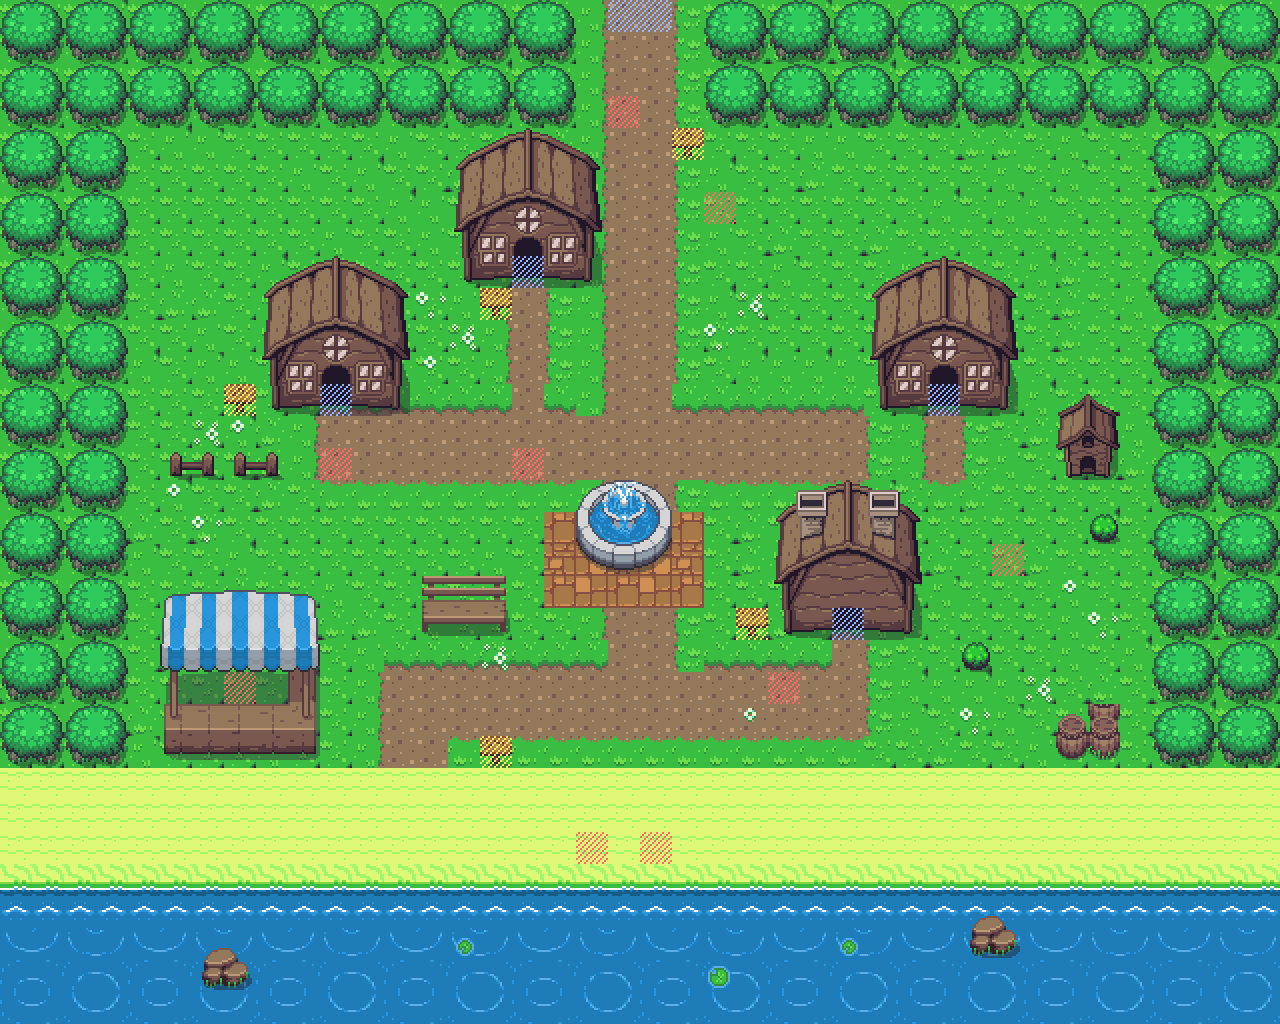
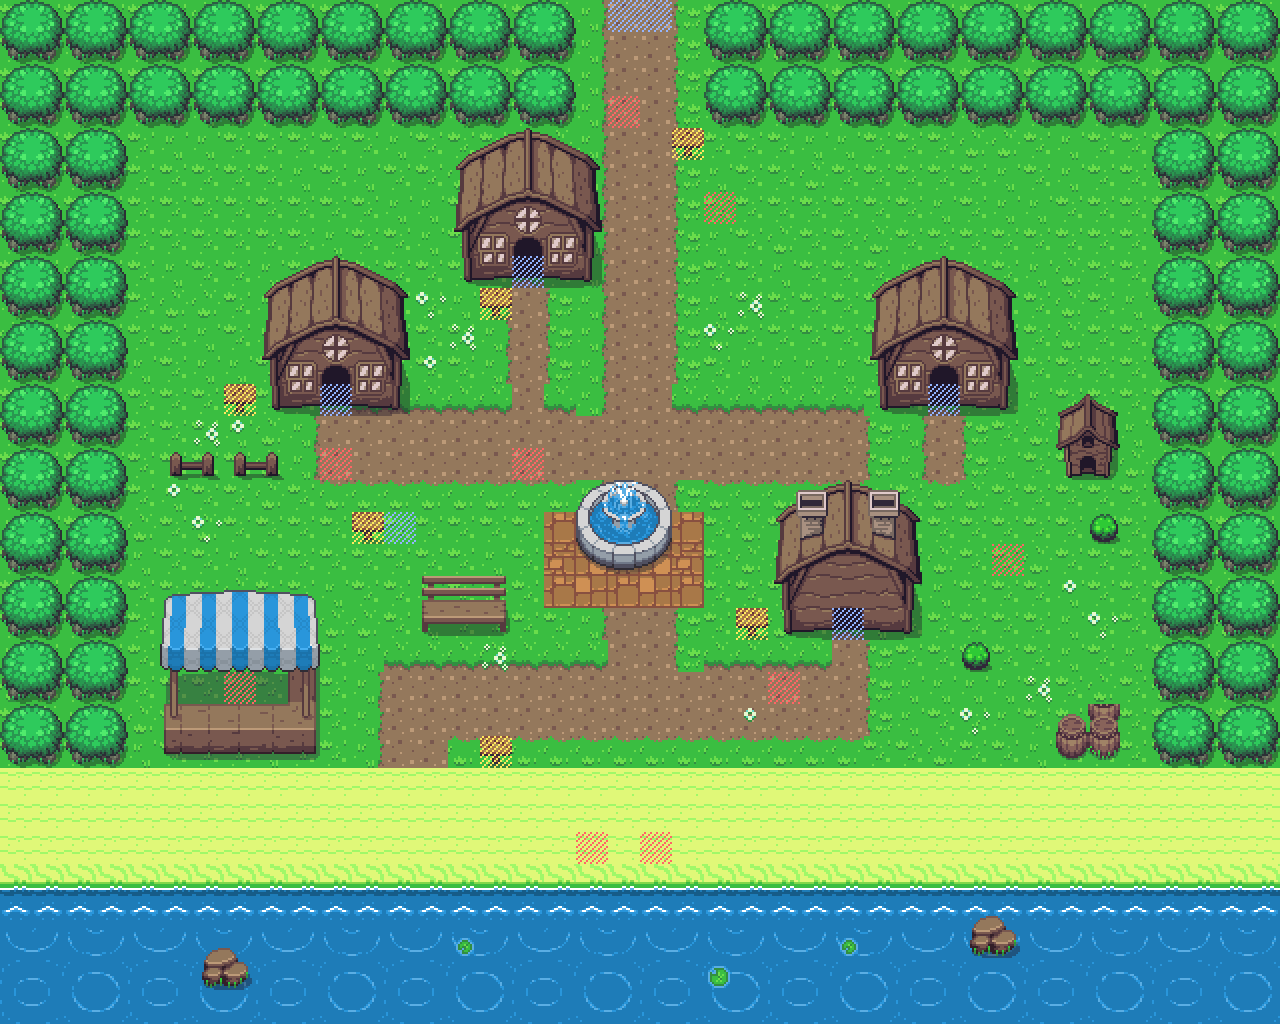
Vila piloto no estilo Kenney Tiny Town (CC0) para comparar com o tileset de hoje
- Mapa art_lab refeito: vila com 5 casas, praça com poço, caminhos de terra,
  mata em volta (verde e de outono), cerca com flores e enfeites. Os tiles do
  Kenney são montados pelo vizinho (quina, borda e miolo), sem emenda.
- Brisamar: a placa estava em cima da passagem e bloqueava a entrada. Agora a
  placa fica ao lado, com desenho, e a passagem é o tile (12, 16).
- A cena liga só as folhas que o mapa usa (TILESET_KEYS). Antes o art_lab
  abria preto: o tileset do Kenney não era ligado e a colisão usava gid de
  outra folha, o que quebrava o Phaser.
- Kenney Tiny Town entra no repo (CC0) e nos créditos.

Changed region(s): [[0.25, 0.5, 0.3438, 0.5312]]

diff --git a/game/phaser/scenes/WorldScene.ts b/game/phaser/scenes/WorldScene.ts
@@ -12,7 +12,7 @@ import { Pet } from "@/game/phaser/pet";
 import { TRAINER_SIGHT_RANGE, hasTrainerSight } from "@/game/phaser/sight";
 import { useSettings } from "@/lib/settings/store";
 import { say } from "@/game/core/ui";
-import { TALL_GRASS_GID, TALL_GRASS_TOP_FRAME, TILE, TILE_SPRITE_FRAME, VIEW_H, VIEW_W } from "@/game/phaser/constants";
+import { TALL_GRASS_GID, TALL_GRASS_TOP_FRAME, TILE, TILE_SPRITE_FRAME, TILESET_KEYS, VIEW_H, VIEW_W } from "@/game/phaser/constants";
 import { rebuildArt, tileGap } from "@/game/phaser/smooth";
 import { addFountains } from "@/game/phaser/fountain";
 import { addLeaves, addWaterLife, grassBurst } from "@/game/phaser/life";
@@ -221,11 +221,10 @@ export class WorldScene extends Phaser.Scene {
 
   buildMap(): void {
     this.tilemap = this.make.tilemap({ key: `map_${this.mapKey}` });
-    const sets = [
-      this.tilemap.addTilesetImage("overworld", "overworld", 16, 16, ...tileGap(this, "overworld")),
-      this.tilemap.addTilesetImage("inner", "inner", 16, 16, ...tileGap(this, "inner")),
-      this.tilemap.addTilesetImage("extra", "extra", 16, 16, ...tileGap(this, "extra")),
-    ].filter((set): set is Phaser.Tilemaps.Tileset => Boolean(set));
+    // Cada mapa liga só as folhas que usa (a vila piloto usa só a do Kenney).
+    const sets = TILESET_KEYS.filter((key) => this.tilemap.getTilesetIndex(key) !== null)
+      .map((key) => this.tilemap.addTilesetImage(key, key, 16, 16, ...tileGap(this, key)))
+      .filter((set): set is Phaser.Tilemaps.Tileset => Boolean(set));
     const depths: Record<string, number> = { ground: 0, detail: 1, buildings: 2, above: 100000 };
     this.layers = {};
     for (const name of Object.keys(depths)) {

diff --git a/game/phaser/scenes/BootScene.ts b/game/phaser/scenes/BootScene.ts
@@ -1,5 +1,5 @@
 import * as Phaser from "phaser";
-import { MAP_KEYS, MON_SPRITES } from "@/game/phaser/constants";
+import { MAP_KEYS, MON_SPRITES, TILESET_KEYS } from "@/game/phaser/constants";
 import { addArt } from "@/game/phaser/smooth";
 import { buildNpcTextures, buildPlayerTexture, buildUiTextures } from "@/game/phaser/textures";
 import { useGame } from "@/game/state/store";
@@ -13,6 +13,7 @@ export class BootScene extends Phaser.Scene {
     this.load.image("overworld", "/assets/tilesets/overworld.png");
     this.load.image("inner", "/assets/tilesets/inner.png");
     this.load.image("extra", "/assets/tilesets/extra.png");
+    this.load.image("kenney_town", "/assets/tilesets/kenney_tiny_town.png");
     for (const key of MAP_KEYS) this.load.tilemapTiledJSON(`map_${key}`, `/assets/maps/${key}.json`);
     for (const sprite of MON_SPRITES) {
       this.load.image(`mon_${sprite}`, `/assets/sprites/pokemon/${sprite}.png`);
@@ -31,7 +32,7 @@ export class BootScene extends Phaser.Scene {
     buildUiTextures(this);
     // Tilesets ampliados (ou não) conforme "Gráficos" nas Opções; extra_sheet são os tiles soltos.
     addArt(this, "extra_sheet", 16, 16, true, undefined, "extra");
-    for (const key of ["overworld", "inner", "extra"]) addArt(this, key, 16, 16, false);
+    for (const key of TILESET_KEYS) addArt(this, key, 16, 16, false);
     const state = useGame.getState().live;
     if (!state) return;
     await Promise.all([buildPlayerTexture(this, state.appearance), buildNpcTextures(this)]);

diff --git a/game/phaser/constants.ts b/game/phaser/constants.ts
@@ -4,7 +4,10 @@ export const VIEW_W = 240;
 export const VIEW_H = 160;
 export const TILE = 16;
 
-export const MAP_KEYS = ["brisamar", "house_1f", "house_2f", "neighbor", "lab", "clinic", "route1", "clearing", "forest", "route2", "ferruria", "ferruria_lab", "ferruria_center", "ferruria_gym", "ferruria_mart", "ferruria_house"] as const;
+/** Folhas de tiles carregadas no boot; o nome é o mesmo no Tiled e na textura. */
+export const TILESET_KEYS = ["overworld", "inner", "extra", "kenney_town"] as const;
+
+export const MAP_KEYS = ["brisamar", "house_1f", "house_2f", "neighbor", "lab", "clinic", "route1", "clearing", "forest", "route2", "ferruria", "ferruria_lab", "ferruria_center", "ferruria_gym", "ferruria_mart", "ferruria_house", "art_lab"] as const;
 export const MON_SPRITES = [...new Set(Object.values(SPECIES).map((mon) => mon.sprite))];
 
 const LOADED_SPRITES = new Set<string>(MON_SPRITES);

diff --git a/game/story/chapter1.ts b/game/story/chapter1.ts
@@ -529,6 +529,8 @@ const SIGNS: Record<string, string[]> = {
   sign_ferruria: ["Cidade Ferrúria.", "O laboratório da professora Celina fica perto da praça."],
   sign_gym: ["Ginásio de Ferrúria — tipo Inseto.", "O desafio fica para depois. Hoje não."],
   sign_village: ["Vila Brisamar.", "Onde o vento do mar começa."],
+  goto_art_lab: ["Mostra de arte CC0 (Kenney + GitHub).", "Entre para ver como a vila pode ficar."],
+  art_lab_sign: ["Laboratório visual.", "Tiles Kenney Tiny Town — experimento."],
   bedroom_shelf: ["Nunca terminei de ler."],
   bedroom_bag: ["Faz tempo que não uso isso."],
   bedroom_window: ["Ela já deve estar de pé."],

diff --git a/game/core/daytime.ts b/game/core/daytime.ts
@@ -10,7 +10,7 @@ export function timeOfDay(flags: Record<string, boolean> | undefined): TimeOfDay
 }
 
 /** Mapas a céu aberto: só eles recebem luz do dia. Interiores e batalhas ficam com a cor normal. */
-export const OUTDOOR_MAPS = new Set(["brisamar", "route1", "clearing", "forest", "route2", "ferruria"]);
+export const OUTDOOR_MAPS = new Set(["brisamar", "route1", "clearing", "forest", "route2", "ferruria", "art_lab"]);
 
 type Look = { grade: number; vignette: number; glow: number; glowTint: number; lamp: number };
 

diff --git a/scripts/build_maps.py b/scripts/build_maps.py
@@ -20,6 +20,28 @@ TILESETS = [
 ]
 
 
+def _kenney_tileset() -> dict | None:
+    png = ASSETS / "tilesets" / "kenney_tiny_town.png"
+    if not png.is_file():
+        return None
+    img = Image.open(png)
+    return {
+        "name": "kenney_town",
+        "image": "../tilesets/kenney_tiny_town.png",
+        "w": img.width,
+        "h": img.height,
+        "first": 1,
+    }
+
+
+def _tilesets_for(m: "Map") -> list[dict]:
+    if m.name == "art_lab":
+        kt = _kenney_tileset()
+        if kt:
+            return [kt]
+    return TILESETS
+
+
 def OW(c: int, r: int) -> int:
     return 1 + r * 40 + c
 
@@ -148,7 +170,7 @@ class Map:
 
     def to_tiled(self) -> dict:
         tilesets = []
-        for ts in TILESETS:
+        for ts in _tilesets_for(self):
             cols = ts["w"] // T
             entry = {
                 "firstgid": ts["first"],
@@ -304,6 +326,122 @@ def house(m: Map, c: int, r: int, lab: bool = False) -> tuple[int, int]:
     return c + 2, r + 4
 
 
+def build_art_lab() -> Map | None:
+    """Vila piloto com o Kenney Tiny Town (CC0), para comparar com o tileset de hoje."""
+    if _kenney_tileset() is None:
+        return None
+
+    def K(i: int) -> int:
+        return 1 + i  # tile_XXXX.png do Kenney = índice XXXX
+
+    cols, rows = 28, 20
+    m = Map("art_lab", cols, rows, fill=K(0), music="town")
+    gate = range(13, 15)
+
+    def blob(cells: set[tuple[int, int]], first, layer: str, edge_full: bool) -> None:
+        """Pinta uma mancha 3 × 3 (quinas, bordas e miolo) pelo vizinho de cada célula.
+
+        `first` é o tile da quina de cima à esquerda, ou uma função da célula que o devolve."""
+        def has(c: int, r: int) -> bool:
+            return (c, r) in cells or (edge_full and not m.inside(c, r))
+        for c, r in cells:
+            n, s, w, e = has(c, r - 1), has(c, r + 1), has(c - 1, r), has(c + 1, r)
+            col = 0 if not w else 2 if not e else 1
+            row = 0 if not n else 2 if not s else 1
+            base = first(c, r) if callable(first) else first
+            m.set(layer, c, r, K(base + row * 12 + col))
+
+    # Grama com tufo e flor espalhados sem padrão visível.
+    for r in range(rows):
+        for c in range(cols):
+            h = (c * 73 + r * 151 + c * r * 7) % 100
+            if h < 5:
+                m.set("ground", c, r, K(2))
+            elif h < 17:
+                m.set("ground", c, r, K(1))
+
+    # Mata em volta, com a saída aberta embaixo e uns pés de outono.
+    forest = set()
+    for r in range(rows):
+        for c in range(cols):
+            border = r < 3 or c < 3 or c >= cols - 3 or (r >= rows - 2 and c not in gate)
+            if border:
+                forest.add((c, r))
+    autumn = {(c, r) for c, r in forest if 18 <= c <= 24 and r < 3}
+    blob(forest, lambda c, r: 9 if (c, r) in autumn else 6, "buildings", True)
+    for c, r in forest:
+        m.solid(c, r)
+
+    # Caminhos de terra: rua de cima a baixo, avenida das casas e a praça.
+    dirt = set()
+    for r in range(8, rows):
+        for c in gate:
+            dirt.add((c, r))
+    for r in (8, 9):
+        for c in range(4, 24):
+            dirt.add((c, r))
+    for r in range(10, 14):
+        for c in range(10, 18):
+            dirt.add((c, r))
+    blob(dirt, 12, "ground", False)
+
+    def house(c: int, r: int, roof: str, wide: bool = False, chimney: bool = False) -> None:
+        top, low = (52, 64) if roof == "red" else (48, 60)
+        width = 4 if wide else 3
+        mids = [1] * (width - 2)
+        roof_top = [top] + [top + d for d in mids] + [top + 2]
+        roof_low = [low] + [low + d for d in mids] + [low + 2]
+        if chimney:
+            roof_top[1] = 55 if roof == "red" else 51
+        if roof == "red":
+            wall = [72, 86, 87, 73] if wide else [84, 85, 84]
+        else:
+            wall = [88, 89, 89, 88] if wide else [88, 89, 88]
+        for dx in range(width):
+            m.set("above", c + dx, r, K(roof_top[dx]))
+            m.set("buildings", c + dx, r + 1, K(roof_low[dx]))
+            m.set("buildings", c + dx, r + 2, K(wall[dx]))
+            m.solid(c + dx, r + 1)
+            m.solid(c + dx, r + 2)
+
+    house(5, 5, "red", chimney=True)
+    house(12, 4, "red", wide=True)
+    house(19, 5, "gray")
+    house(4, 11, "gray", chimney=True)
+    house(20, 11, "red")
+
+    # Cerca com horta de flores à direita da praça.
+    for c in range(19, 24):
+        m.set("buildings", c, 15, K(81))
+        m.solid(c, 15)
+    m.set("buildings", 19, 15, K(80))
+    m.set("buildings", 23, 15, K(82))
+    for c in range(19, 24):
+        m.set("detail", c, 16, K(2))
+
+    def prop(c: int, r: int, i: int) -> None:
+        m.set("buildings", c, r, K(i))
+        m.solid(c, r)
+
+    prop(13, 11, 104)  # poço no meio da praça
+    prop(9, 15, 94)    # colmeia
+    prop(8, 15, 107)   # pote
+    prop(7, 16, 106)   # tora
+    prop(16, 15, 95)   # alvo de treino
+    prop(24, 10, 29)   # cogumelos na beira da mata
+    prop(15, 17, 83)   # placa da entrada
+    m.sign("art_lab_sign", 15, 17)
+    for c in gate:
+        m.warp(c, rows - 1, "brisamar", 12, 15, "up")
+    m.spawn("default", 13, rows - 2, "up")
+    # A colisão marca com um tile do "extra", que este mapa não carrega: o Phaser quebra ao ler
+    # gid sem folha. Aqui ela usa o primeiro tile do Kenney (a camada é invisível).
+    grid = m.layers["collision"]
+    for r in range(rows):
+        grid[r] = [K(0) if gid else 0 for gid in grid[r]]
+    return m
+
+
 def build_brisamar() -> Map:
     m = Map("Vila Brisamar", 40, 32, music="town")
     grass_fill(m)
@@ -354,6 +492,11 @@ def build_brisamar() -> Map:
         for dx in range(5):
             m.set("ground", 17 + dx, 16 + dy, FLAGSTONE[(16 + dy) % 2][(17 + dx) % 2])
     m.stamp(18, 15, 22, 9, 3, 3, above_rows=0)
+    if _kenney_tileset():
+        # A placa é sólida: fica ao lado da passagem, não em cima dela.
+        m.sign("goto_art_lab", 11, 16)
+        m.set("buildings", 11, 16, OW(35, 2))
+        m.warp(12, 16, "art_lab", 13, 18, "up")
 
     m.stamp(5, 18, 18, 22, 5, 6, above_rows=3, open_cells=())
     for dx in range(5):
@@ -933,7 +1076,7 @@ def build_ferruria_lab() -> Map:
 
 def render_preview(m: Map) -> None:
     sheets = {}
-    for ts in TILESETS:
+    for ts in _tilesets_for(m):
         sheets[ts["name"]] = (ts["first"], ts["w"] // T, Image.open(ASSETS / ts["image"].replace("../", "")).convert("RGBA"))
     img = Image.new("RGBA", (m.cols * T, m.rows * T), (18, 16, 24, 255))
     for layer in ("ground", "detail", "buildings", "above"):
@@ -979,6 +1122,9 @@ def main() -> None:
         "ferruria_mart": build_ferruria_mart(),
         "ferruria_house": build_ferruria_house(),
     }
+    lab = build_art_lab()
+    if lab is not None:
+        built["art_lab"] = lab
     for key, m in built.items():
         m.key = key
         (MAPS / f"{key}.json").write_text(json.dumps(m.to_tiled()), encoding="utf-8")

diff --git a/CREDITS.md b/CREDITS.md
@@ -16,6 +16,7 @@
 
 - **ArMM1998** — tileset nature CC0 (via `.tmp-art`)
 - Tiles extras gerados em `scripts/build_assets.py`
+- **Kenney** — Tiny Town (CC0), em `public/assets/tilesets/kenney_tiny_town.png`; usado na vila piloto `art_lab`
 
 ## Personagens (overworld)
 
